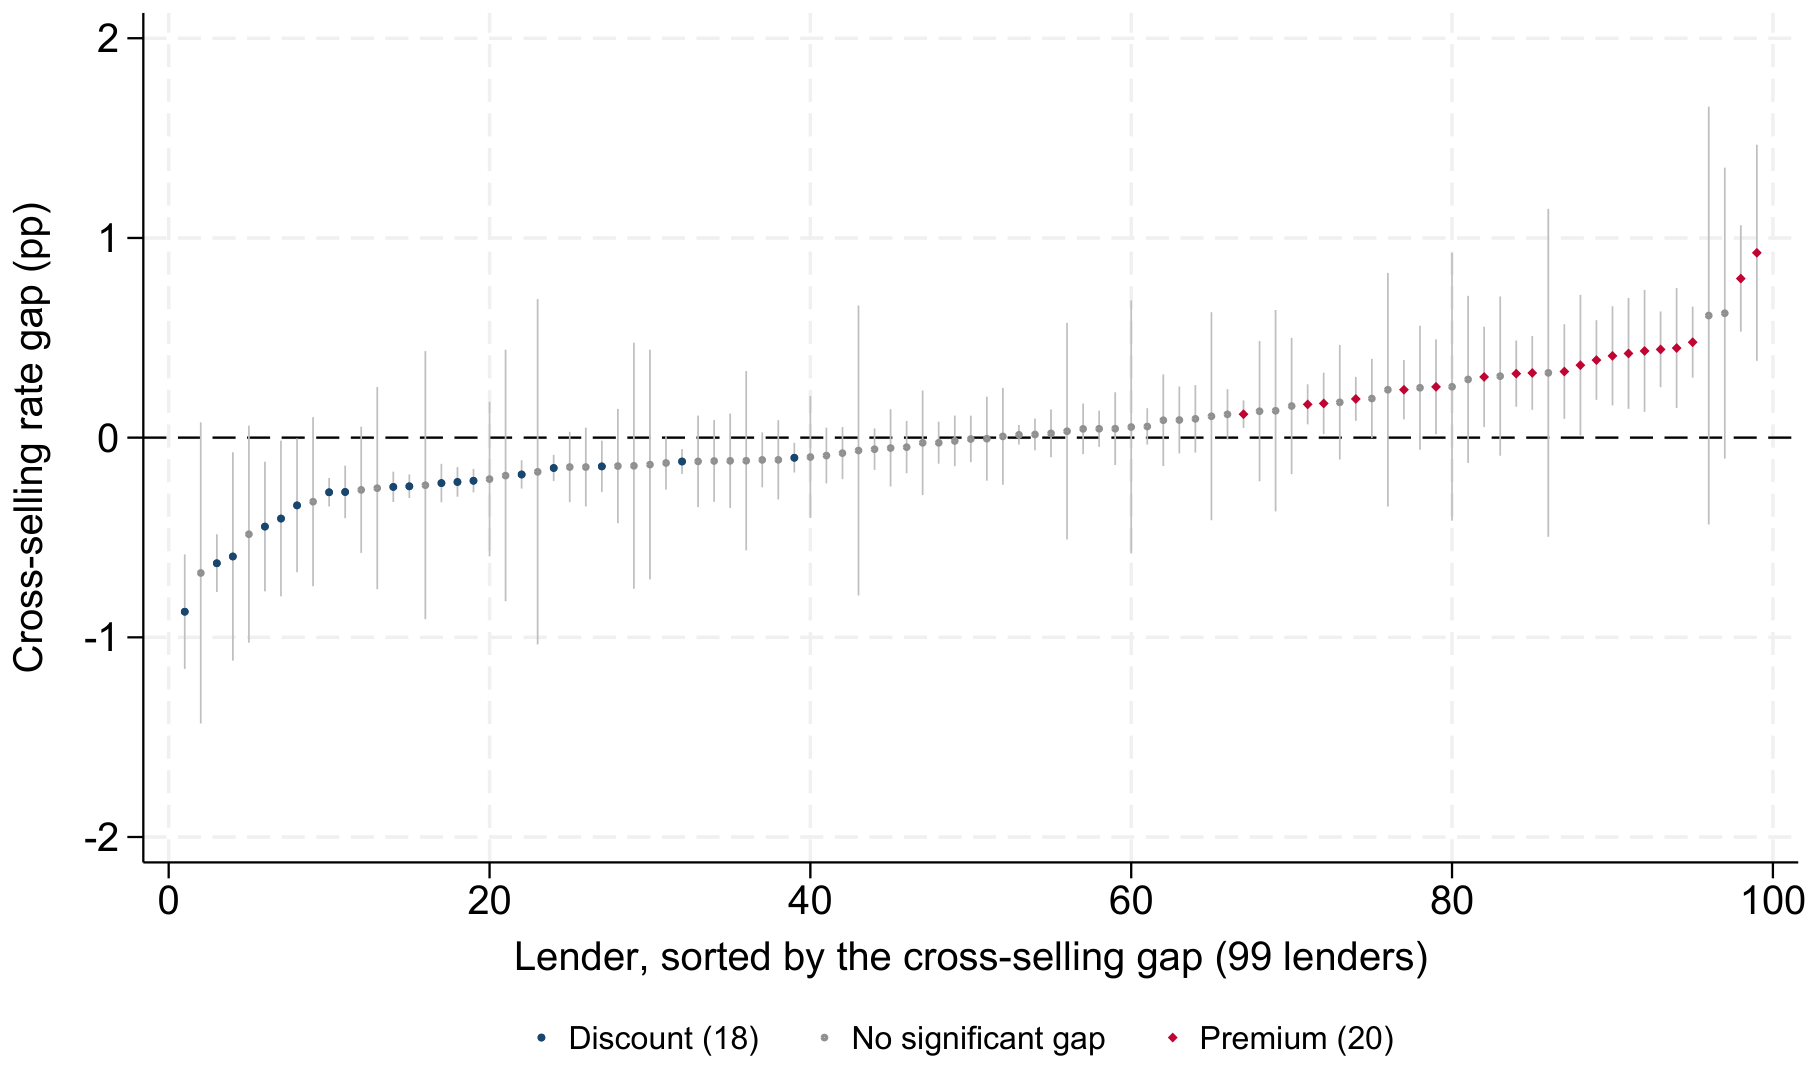
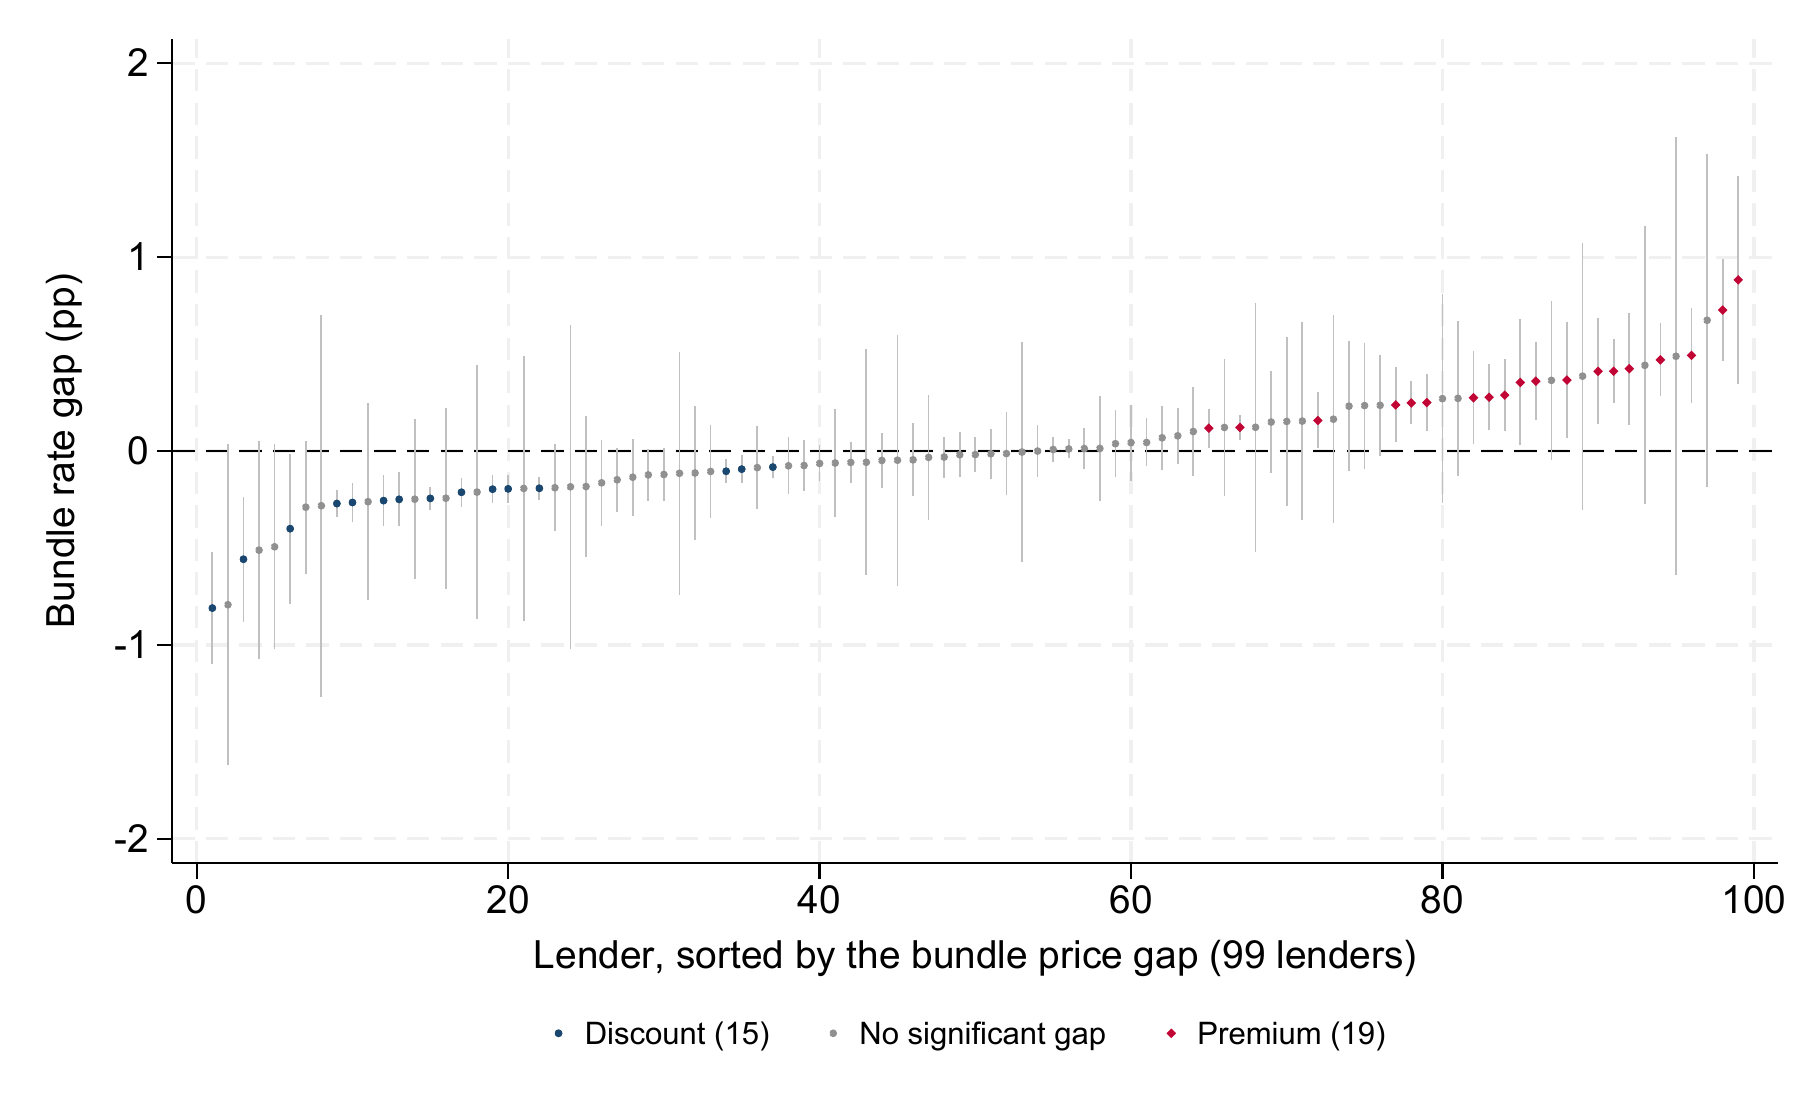
Update bundle figure
New version of the lender bundle-gap chart, relabelled "Bundle rate
gap" with Discount (15) / Premium (19). Alt text follows the new
labels and counts; drop the vector copy the figure linked to.

diff --git a/projects.html b/projects.html
@@ -90,9 +90,7 @@
               </p>
             </div>
             <div class="project-row__image">
-              <a href="images/projects/bundles.pdf" target="_blank" rel="noopener">
-                <img src="images/projects/bundles_lender_gaps.png" alt="Cross-selling rate gap estimated separately for each of 99 French lenders, with 95% confidence intervals, sorted from the largest discount to the largest premium; most gaps are not significantly different from zero, while the significant ones span about 1.7 percentage points">
-              </a>
+              <img src="images/projects/bundles_lender_gaps.png" alt="Bundle rate gap estimated separately for each of 99 French lenders, with 95% confidence intervals, sorted from the largest discount to the largest premium; 15 lenders give a significant discount and 19 charge a significant premium, while the rest show no significant gap">
             </div>
           </article>
 
